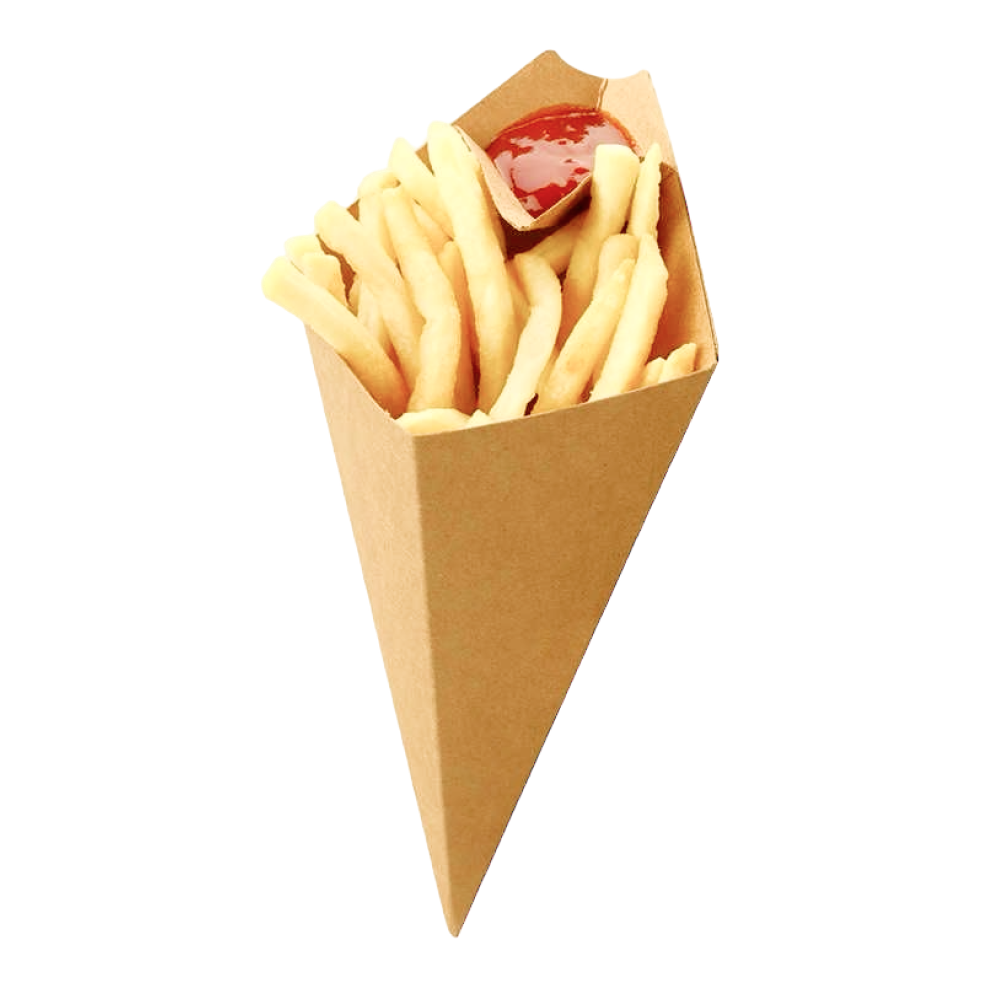
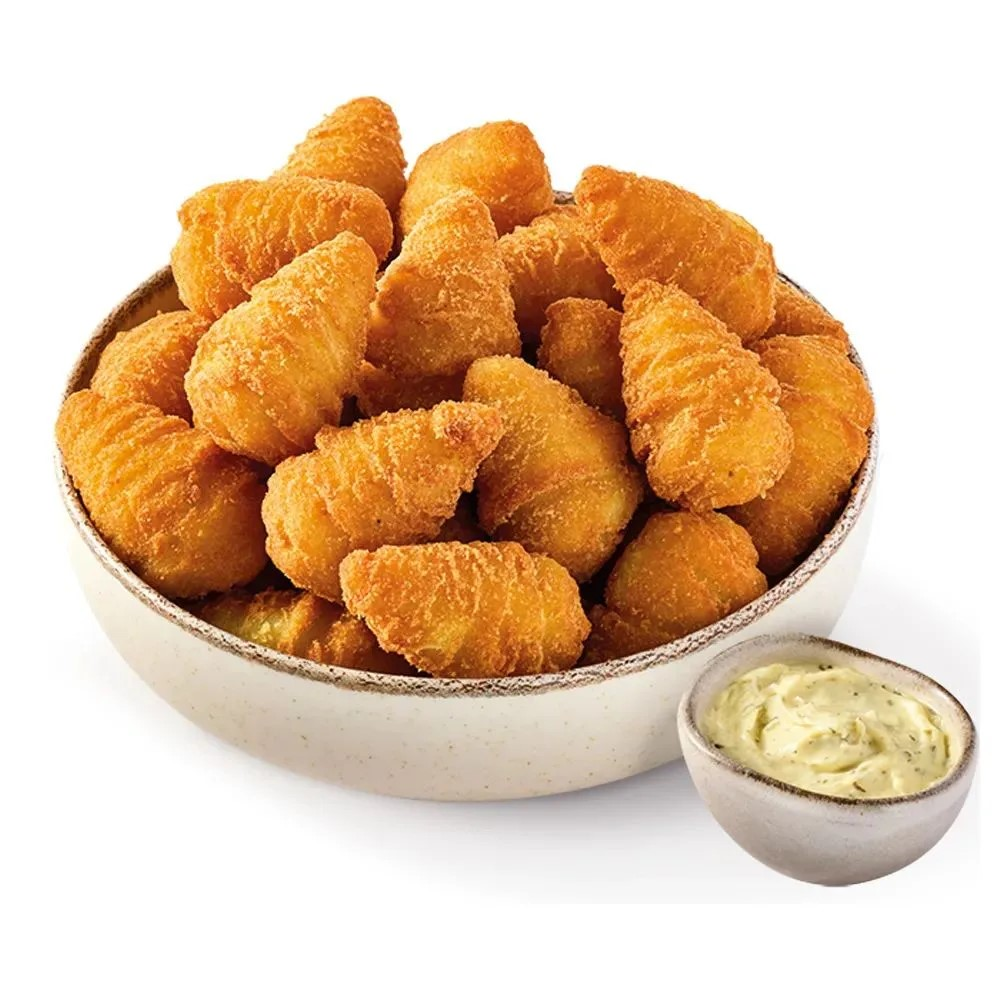
menufix1

diff --git a/assets/js/main.js b/assets/js/main.js
@@ -321,8 +321,8 @@
             image: 'assets/images/shashluk.webp',
             variations: [
                 { name: 'Курица', price: 220 },
-                { name: 'Свинина', price: 300 },
-                { name: 'Телятина', price: 350 }
+                { name: 'Свинина', price: 300, image: 'assets/images/shashluksvinina.webp' },
+                { name: 'Телятина', price: 350, image: 'assets/images/shashluktelyatina.webp' }
             ]
         },
         {
@@ -382,7 +382,7 @@
         {
             id: 'sn_potato_cones',
             category: 'snacks',
-            title: 'Картофельные конусы',
+            title: 'Картофельные конусы (100 гр.)',
             description: 'Хрустящие картофельные конусы с аппетитной панировкой.',
             image: 'assets/images/potatocones.webp',
             price: 150
@@ -398,7 +398,7 @@
         {
             id: 'sn_chickenpopcorn',
             category: 'snacks',
-            title: 'Куриные попкорны',
+            title: 'Куриные попкорны (100 гр.)',
             description: 'Нежные кусочки куриного филе в хрустящей панировке.',
             image: 'assets/images/chickenpopcorn.webp',
             price: 150
@@ -410,6 +410,14 @@
             description: 'Обжаренные королевские креветки в нежном кляре.',
             image: 'assets/images/shrimpclar.webp',
             price: 250
+        },
+        {
+            id: 'sn_minicheb',
+            category: 'snacks',
+            title: 'Мини-чебуреки (5 шт.)',
+            description: 'Хрустящее тесто снаружи, внутри курица с зеленью.',
+            image: 'assets/images/minicheburek.webp',
+            price: 170
         },
         {
             id: 'dr_soft',
@@ -445,6 +453,22 @@
             description: 'Ароматный горячий чай от Greenfield с добавлением сочного лимона.',
             image: 'assets/images/tea.webp',
             price: 40
+        },
+
+        // КОМБО
+        {
+            id: 'cm_fss',
+            category: 'combos',
+            title: 'Картофель фри + мини-сосиски и соус томатный',
+            description: 'Очень вкусное комбо на обед!',
+            price: 300
+        },
+        {
+            id: 'cm_pcs',
+            category: 'combos',
+            title: 'Картофельные конусы + куриный попкорн и соус',
+            description: 'Киношное комбо: будто на фильм!',
+            price: 300
         }
     ];
 